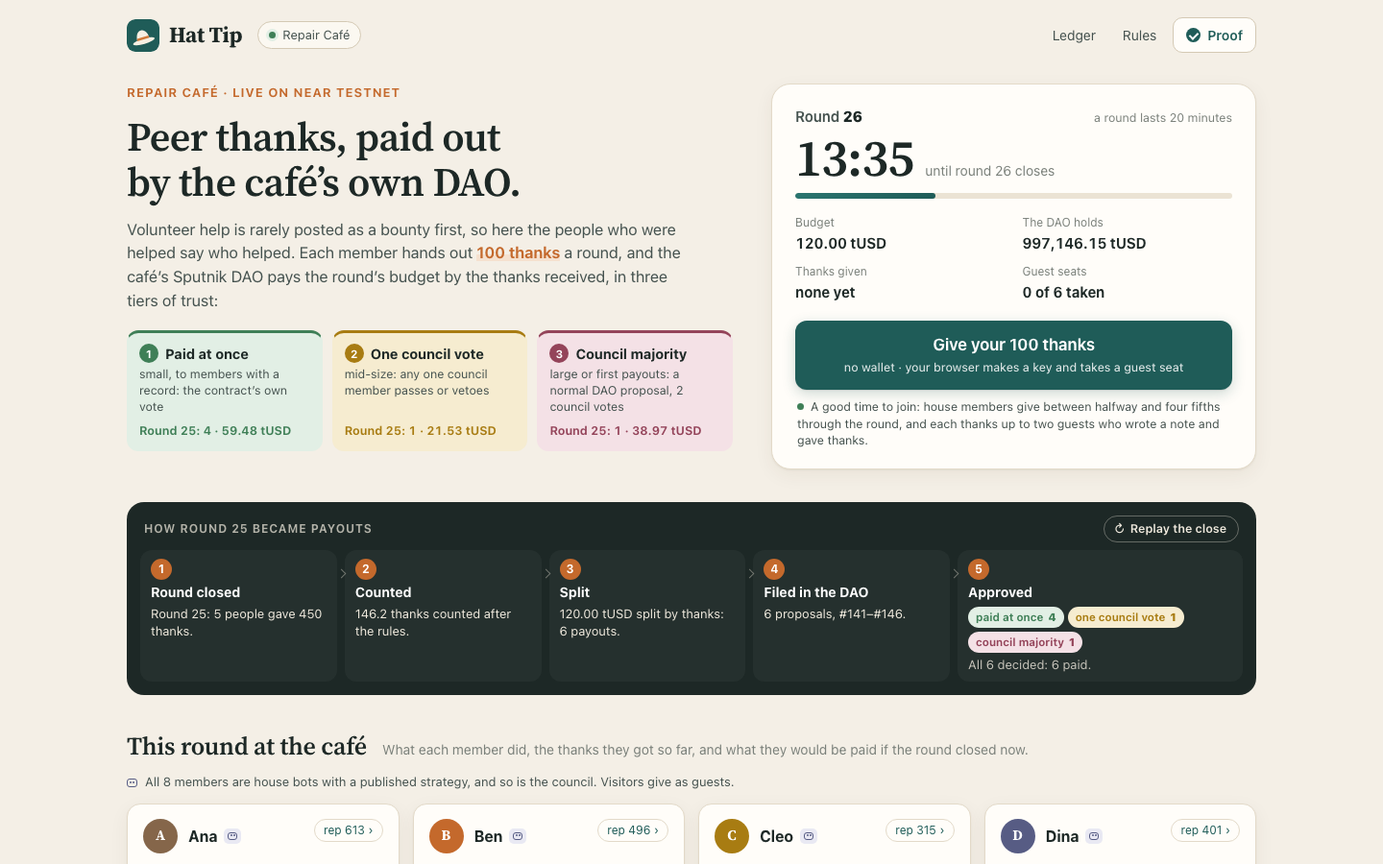
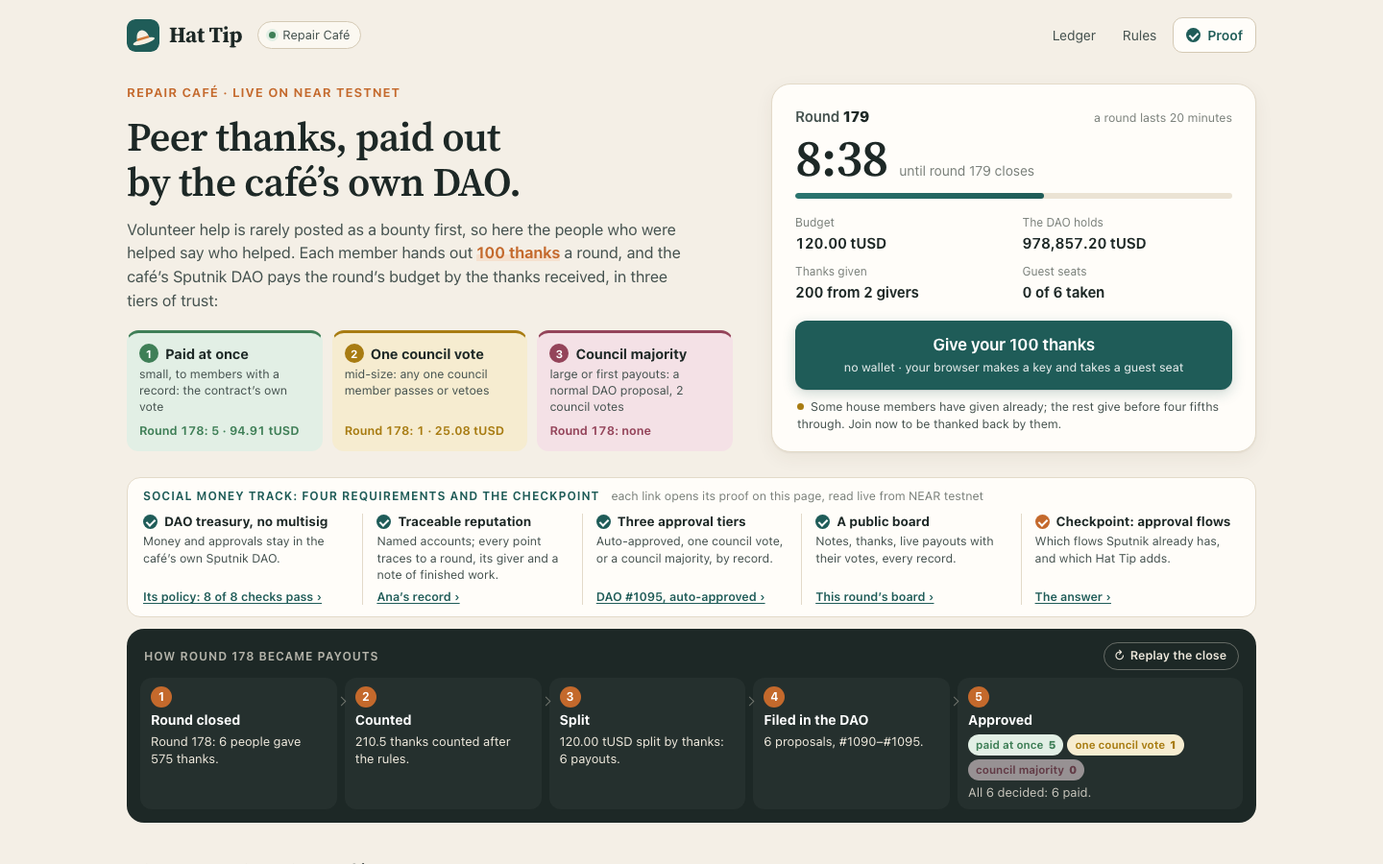
README, JUDGE: requirements with live proofs, numbers as of 11-10 UTC
One-sentence summary on top, the track's four requirements and checkpoint
in the first screen, Trezu as what a mainnet community would see, the
11-08 counts replaced by a dated live read.

diff --git a/README.md b/README.md
@@ -2,15 +2,27 @@
 
 [![CI](https://github.com/replaycourt/hat-tip/actions/workflows/ci.yml/badge.svg)](https://github.com/replaycourt/hat-tip/actions/workflows/ci.yml)
 
-![The live page: "Peer thanks, paid out by the café's own DAO", the three tiers as tiles with the last round's numbers, the round card with the countdown and the Give button, and the five steps of the last close](docs/shots/final-desktop-hero.png)
+**Every payout is a proposal in the community's own Sputnik DAO, the contract that files it has no keys, and a guest without a wallet gets paid.**
 
 **▶ Try it now, no wallet: https://replaycourt.github.io/hat-tip/web/** · [Video, 90 s](https://x.com/replaycourt/status/2119435604131795220) · [JUDGE.md](JUDGE.md): a five-minute path and 14 read-only checks
+
+| The `social` track asks for | How Hat Tip meets it | Live proof |
+|---|---|---|
+| 1. The community's existing DAO or Trezu treasury for custody and approvals, no new multisig | The money stays in the café's Sputnik v2 DAO from the public factory, unmodified. Every payout is a proposal in it, executed by the DAO. | [The DAO's policy, read live](https://replaycourt.github.io/hat-tip/web/#policy) |
+| 2. Reputation tied to named accounts, every point traceable to a finished bounty | Members are named accounts in the DAO's `members` role. Every point traces to a round, its giver and the receiver's note of finished work ("fixed 2 kettles"). | [Ana's record, point by point](https://replaycourt.github.io/hat-tip/web/#record=ana.hat-tip.testnet) |
+| 3. Small payouts auto-approve for trusted contributors, mid-size need one council member, large are a normal DAO proposal | Three vote policies of the DAO itself: the contract's role approves its own transfers 1 of 1, one council vote passes a `call`, the default policy needs the majority. The receiver's record picks the tier. | [DAO #41, filed and approved by the contract](https://replaycourt.github.io/hat-tip/web/#proposal=41) ([its transaction](https://testnet.nearblocks.io/txns/E7SnGkS6Z4oHJcqYLuSbXjDKzQa21sSspYmWDRVzS2zD)) |
+| 4. A public board: open bounties, claims, payouts, each contributor's record | The running round is the open board: each member's note is the claim of finished work, the thanks so far its acceptance, with a live payout preview and tier. Then payouts by tier with DAO links and votes, every record, the ledger of every round. | [The board](https://replaycourt.github.io/hat-tip/web/#board) |
+| Checkpoint: which approval flows exist and which must be added | Sputnik has the roles, the vote policies per proposal kind and the transfers. Hat Tip adds the amount limits, the counting and the choice of tier, and turns off the factory's auto-update. | [On the page](https://replaycourt.github.io/hat-tip/web/#flows), [in full below](#which-approval-flows-exist-and-which-we-add) |
+
+**As of 2026-11-10 21:48 UTC** (block 277,124,746): 178 rounds closed and 1,095 payouts, every one a proposal the contract filed in the DAO: 729 in tier 1, approved by the contract's own vote; 254 in tier 2; 112 in tier 3. 1,091 are paid (21,142.80 tUSD); the council rejected 4, each with its strike; `audit()` balanced. The page reads the current numbers. Code, tests and checks for each row: [Fits the track](#fits-the-track).
+
+![The live page: "Peer thanks, paid out by the café's own DAO", the three tiers as tiles with the last round's numbers, the round card with the countdown and the Give button; under them the track's four requirements and its checkpoint, each with its live link, and the five steps of the last close](docs/shots/final-desktop-hero.png)
 
 **What.** Paying helpers from a DAO is slow by design: every payout is a proposal the council votes on. Hat Tip lets a community that keeps its money in a Sputnik DAO pay the people who helped, without a vote on every small payout and without a new multisig. Each member hands out 100 thanks a round; when the round closes, the DAO pays the round's budget by the thanks received. The receiver's record decides how many people must say yes: small payouts to members with a record pass at once by the contract's own vote, mid-size ones need one council member, large ones and most first payouts are a normal DAO proposal for the council majority.
 
 **Why thanks instead of bounties.** The track's starter idea is a bounty board, and the hackathon guide says: *"Swap the starter idea for your own if you have a better one. Keep the requirements and the checkpoint."* Hat Tip swaps it. In a volunteer community most work is unplanned help that nobody posts or prices in advance: the kettle fixed in passing, the newcomer shown around. Thanks after the work capture it, and the people who were helped are the ones who judge it. The four requirements and the checkpoint stay, each met below in [Fits the track](#fits-the-track).
 
-**Try it in a minute.** Open the page, tap *Give your 100 thanks* (your browser makes a key; there is no wallet prompt), tap *+10* on a few people and see every card's payout and tier move, then send. Join in the first half of a 20-minute round: the house members thank guests back between halfway and four fifths of the round. The dark strip under the title shows how the last round became payouts, in five steps; *Replay the close* plays it; every payout's number opens its proposal live from the DAO.
+**Try it in a minute.** Open the page, tap *Give your 100 thanks* (your browser makes a key; there is no wallet prompt), tap *+10* on a few people and see every card's payout and tier move, then send. Join in the first half of a 20-minute round: the house members thank guests back between halfway and four fifths of the round. Under the tiles, the track's requirements, each with its live link; under them, a dark strip shows how the last round became payouts, in five steps; *Replay the close* plays it; every payout's number opens its proposal live from the DAO.
 
 **Proof.** Everything runs on NEAR testnet in one contract with no access keys: `scripts/judge-checks.sh` reads 14 facts from the chain in about 15 seconds.
 
@@ -20,7 +32,7 @@
 | The tiers are the DAO's own policy | checks 5-8: the three thresholds exactly, no `Everyone` role, only the contract may file `call` proposals, the factory cannot upgrade the DAO |
 | Every payout is a real DAO proposal | check 12: the DAO's proposals against the contract's `payouts()`; the page links each payout to its proposal |
 | The contract counts like the simulation | `contract/tests/golden.rs`: 6 vectors, 61 rounds, to the base unit; the page's `logic.js` passes the same vectors |
-| It ran on the real chain | the final deployment: 24 rounds and 140 payouts in all three tiers by 2026-11-08 18:35 UTC; before it, a staging run of 28 rounds and 154 payouts with 6 council rejections ([docs/testnet-stage.md](docs/testnet-stage.md)) |
+| It runs on the real chain | the final deployment, as of 2026-11-10 21:48 UTC: 178 rounds and 1,095 payouts in all three tiers, each a DAO proposal (the page and check 9 read the current count); before it, a staging run of 28 rounds and 154 payouts with 6 council rejections ([docs/testnet-stage.md](docs/testnet-stage.md)) |
 | What the rules do not stop | [Honest limits](#honest-limits): rings, one-way thanks, free riders, a guest farm, a colluding council |
 
 | The round board | The payouts of the last round, by tier |
@@ -47,7 +59,9 @@ The `social` track: *"shared budgets, programmable rewards, collective ownership
 | 4. A public board: open bounties, claims, payouts, each contributor's record | **Met as a round board.** In place of open bounties and claims: the running round, each member's note of what they did, the thanks so far and a live payout preview with its tier. Then the payouts by tier with DAO proposal links and votes, every member's record, and the ledger of every round. | the page, `web/` |
 | Checkpoint: which approval flows already exist and which must be added | Answered below, from the Sputnik source and a probe on testnet. | [Which approval flows exist and which we add](#which-approval-flows-exist-and-which-we-add) |
 
-**Where it differs, honestly.** Nothing is posted or claimed in advance, so a note is the receiver's own word, and the thanks of the people who were helped are what confirm it. Sputnik's own bounty flow (`AddBounty`, `bounty_claim`, `BountyDone`) could run next to Hat Tip in the same DAO for planned work; the demo DAO does not enable it. Trezu was not run: its hosted app is mainnet-only, and a Trezu treasury is a Sputnik DAO, so the contract binds to one the same way. Members are named accounts; near.social profiles are not used.
+**Where it differs, honestly.** Nothing is posted or claimed in advance, so a note is the receiver's own word, and the thanks of the people who were helped are what confirm it. Sputnik's own bounty flow (`AddBounty`, `bounty_claim`, `BountyDone`) could run next to Hat Tip in the same DAO for planned work; the demo DAO does not enable it. Members are named accounts; near.social profiles are not used.
+
+**Trezu.** A Trezu treasury is a Sputnik DAO, so Hat Tip binds to one the same way: a role `thanks` holding the contract, and a council vote policy of weight 1 for `call` proposals ([Your own community](#run-it-yourself)). A community that keeps its treasury in Trezu on mainnet would see Hat Tip's payouts in Trezu as what they are, proposals of its own DAO: tier 1 already approved by the `thanks` role, tiers 2 and 3 open for the council's votes. Trezu's hosted app works on mainnet only and this demo runs on testnet, so we did not open the demo DAO in Trezu; the page reads the same proposals straight from the DAO.
 
 ### Which approval flows exist and which we add
 
@@ -74,7 +88,7 @@ The probe showed each of these on testnet before the contract was written: the r
 
 On the page (https://replaycourt.github.io/hat-tip/web/, or locally, see [Run it yourself](#run-it-yourself)):
 
-1. **The top:** the idea in one line, the three tiers as tiles with the last round's numbers, and the round card: *Round N*, the countdown, the *Budget*, what *The DAO holds*, and *Give your 100 thanks* with a line on whether now is a good time to join.
+1. **The top:** the idea in one line, the three tiers as tiles with the last round's numbers, and the round card: *Round N*, the countdown, the *Budget*, what *The DAO holds*, and *Give your 100 thanks* with a line on whether now is a good time to join. Under them, *Social Money track: four requirements and the checkpoint*, one line each with the link that opens its proof: the DAO's `get_policy` role by role with its checks (`#policy`), a member's record (`#record=<account>`), the newest proposal the contract filed (`#proposal=<id>`), the board, and which approval flows exist (`#flows`).
 2. **The dark strip, *How round N became payouts*:** *Round closed*, *Counted*, *Split*, *Filed in the DAO* (the proposal numbers filed so far), *Approved* (payouts per tier, how many are paid). It plays at every close; *Replay the close* plays it again.
 3. **The board:** a card per member with this round's note, the thanks so far and the payout if the round closed now. All members are house bots with a published strategy; the demo roles say what they show (*Shows collusion: gives Gus 25 a round and gets 25 back. Mutual thanks count 25 %: 6.2 each way.*). Under it, the last round's payouts in three columns, each with its approvals as marks (*✓ the contract*, *✓ Council A*, *○ a council vote*) and its proposal number, which opens the proposal live from the DAO.
 4. **Give:** *Give your 100 thanks* (no wallet prompt; the browser makes an ed25519 key and takes one of six guest seats), *+10* on the people whose work you value, a note, *Send my thanks*. Every card's preview and tier move as you go, and a line says why counted differs from given (*Thanked each other 25 with Gus: counted 6.2 each way.*). A guest's thanks count half; all guests together steer at most 20 % of a round. Each house member thanks up to two guests who wrote a note and gave thanks (5 each) when it gives, between halfway and four fifths of the round, so join early.
@@ -169,7 +183,7 @@ Before the parameters were fixed, [docs/SIMULATION.md](docs/SIMULATION.md) wrote
 - **The community is a demo, run mostly by labelled bots.** The Repair Café's eight members (five honest helpers, the colluding pair finn and gus, the free rider hugo) and the three council members are house accounts played by `scripts/house.mjs` with strategies published in `sim/params.json` ("house") and on every card. The council votes by a published rule: tier 2 is approved unless more than half of the receiver's points came from one giver it thanked back with at least 6 thanks (a welcome of 5 to a guest does not count); tier 3 only with at least three givers behind it. They run in GitHub Actions ([.github/workflows/house.yml](.github/workflows/house.yml)), with keys only from a repository secret. At launch all three council seats are house accounts (`council-a`, `-b`, `-c`); no human holds one.
 - **Visitors are real.** A guest's thanks, seat and payout are real transactions on testnet, relayed through public function-call keys (in `web/js/config.js`, public on purpose; anyone can spend their allowance, which pauses guest play until they are refilled).
 - **Rounds move when someone calls.** The clock decides when a round ends; a call (the keeper, the page, anyone) closes it.
-- **The evidence comes from scripts.** The staging run on testnet (2026-11-07, 28 five-minute rounds, 744 transactions, 154 payouts: 48 tier 1, 65 tier 2, 41 tier 3; 6 council rejections and one removal, each with its strike; `audit()` balanced after every round) was driven by the house script and three browser-style guests ([docs/testnet-stage.md](docs/testnet-stage.md)). The final deployment ([docs/testnet-launch.md](docs/testnet-launch.md)), read 2026-11-08 at 18:35 UTC after 24 rounds of 20 minutes: 140 payouts, 38 in tier 1, 63 in tier 2 and 39 in tier 3, two of them rejected by the council with their strikes (both gus's: round 2, tier 3, and round 17, tier 2), 2,733.84 tUSD paid, `audit()` balanced. Tier 1 began in round 9, once the first member's reputation passed 200 thanks (payout 40 to ana, DAO #41).
+- **The evidence comes from scripts.** The staging run on testnet (2026-11-07, 28 five-minute rounds, 744 transactions, 154 payouts: 48 tier 1, 65 tier 2, 41 tier 3; 6 council rejections and one removal, each with its strike; `audit()` balanced after every round) was driven by the house script and three browser-style guests ([docs/testnet-stage.md](docs/testnet-stage.md)). The final deployment ([docs/testnet-launch.md](docs/testnet-launch.md)), read 2026-11-10 at 21:48 UTC (block 277,124,746) while round 179 ran: 178 rounds of 20 minutes closed and 1,095 payouts, each a proposal the contract filed in the DAO (#1 to #1095; #0 is the council's proposal that turned off the factory's auto-update): 729 in tier 1, 254 in tier 2 and 112 in tier 3. 1,091 are paid, 21,142.80 tUSD; four were rejected by the council, each with its strike (gus's in rounds 2, 17 and 82, finn's in round 28); `audit()` balanced. Tier 1 began in round 9, once the first member's reputation passed 200 thanks (payout 40 to ana, DAO #41). The page and `scripts/judge-checks.sh` read the current numbers.
 
 ## Honest limits
 
@@ -182,7 +196,7 @@ Before the parameters were fixed, [docs/SIMULATION.md](docs/SIMULATION.md) wrote
 - **Every payout stays in the DAO's storage.** Sputnik never deletes a proposal (except on removal): about 385 bytes, 0.0038 NEAR each. That is why small shares are carried, not paid.
 - **The contract's copy of the member and council lists** is as fresh as the last close of a round with allocations or `sync()`.
 - **The contract pays for its storage, the guests' too.** It starts with 11 NEAR (code, 108 rounds of logs with every guest seat taken, the bond float); with less than 1 NEAR free it refuses guests, and anyone can send it more ([contract/README.md](contract/README.md#storage)).
-- **Trezu was not run** (its hosted app is mainnet-only). **No bounties:** the starter idea's bounty board is swapped for thanks after the work, with the requirements kept (see [Fits the track](#fits-the-track)).
+- **Not opened in Trezu.** Trezu's hosted app works on mainnet only, so the testnet demo DAO was not viewed there ([what a Trezu community would see](#fits-the-track)). **No bounties:** the starter idea's bounty board is swapped for thanks after the work, with the requirements kept (see [Fits the track](#fits-the-track)); Sputnik's bounty flow stays free for planned work.
 - **AI-generated code.** An AI coding agent (Claude) wrote the code and documentation from a human's brief during the hackathon window. The evidence that it works: the contract's tests in a mock VM with a model of the Sputnik DAO, the golden test against the simulation, `audit()` balanced on chain, and the staging run with all three tiers. No human reviewed it line by line, and the contract has not been audited.
 
 ## Run it yourself
@@ -201,7 +215,7 @@ It needs Ed25519 in WebCrypto (Chrome 137+, Safari 17+, Firefox 130+) and has a 
 **Tests.**
 
 ```sh
-node --test 'web/test/*.test.mjs'      # 93 tests: counting port vs the golden vectors, preview, giving, signing, policy checks, RPC, mock round, replay data, the close strip and the guest's result; about 7 s
+node --test 'web/test/*.test.mjs'      # 100 tests: counting port vs the golden vectors, preview, giving, signing, policy checks, RPC, mock round, replay data, the close strip, the guest's result, the requirements strip and its links; about 6 s
 node --test 'scripts/test/*.test.mjs'  # 12 tests: the house council's rule and the keeper's window; under 1 s
 (cd contract && cargo test)           # 82 tests in the SDK's mock VM with a model of the Sputnik DAO; cold build about 11 minutes, tests about 2 s
 (cd token && cargo test)              # 6 tests; cold build about 14 minutes

diff --git a/JUDGE.md b/JUDGE.md
@@ -1,6 +1,18 @@
 # Judging Hat Tip in five minutes
 
-**What it is, against the track.** The `social` track's starter idea is a bounty board with earned trust. Hat Tip swaps it for thanks after the work, as the hackathon's guide allows (*"Swap the starter idea for your own if you have a better one. Keep the requirements and the checkpoint."*): in a volunteer community most help is never posted or priced in advance, and the people who were helped are the ones who judge it. It keeps the four requirements and the checkpoint: custody and every approval in the community's existing Sputnik DAO; reputation on named accounts, every point traced to a round, its giver and the receiver's note of finished work; three tiers (the contract's own vote, one council vote, a normal DAO proposal); a public board with payouts, DAO links and each member's record; and the approval flows Sputnik has and Hat Tip adds. One row each, with where to check: [README, Fits the track](README.md#fits-the-track).
+**Every payout is a proposal in the community's own Sputnik DAO, the contract that files it has no keys, and a guest without a wallet gets paid.**
+
+**What it is, against the track.** The `social` track's starter idea is a bounty board with earned trust. Hat Tip swaps it for thanks after the work, as the hackathon's guide allows (*"Swap the starter idea for your own if you have a better one. Keep the requirements and the checkpoint."*): in a volunteer community most help is never posted or priced in advance, and the people who were helped are the ones who judge it. The four requirements and the checkpoint stay, each with a live proof:
+
+| The `social` track asks for | How Hat Tip meets it | Live proof |
+|---|---|---|
+| 1. The community's existing DAO or Trezu treasury for custody and approvals, no new multisig | The money stays in the café's Sputnik v2 DAO from the public factory, unmodified. Every payout is a proposal in it, executed by the DAO. | [The DAO's policy, read live](https://replaycourt.github.io/hat-tip/web/#policy); checks 5-8, 14 below |
+| 2. Reputation tied to named accounts, every point traceable to a finished bounty | Members are named accounts in the DAO's `members` role. Every point traces to a round, its giver and the receiver's note of finished work ("fixed 2 kettles"). | [Ana's record, point by point](https://replaycourt.github.io/hat-tip/web/#record=ana.hat-tip.testnet) |
+| 3. Small payouts auto-approve for trusted contributors, mid-size need one council member, large are a normal DAO proposal | Three vote policies of the DAO itself: the contract's role approves its own transfers 1 of 1, one council vote passes a `call`, the default policy needs the majority. The receiver's record picks the tier. | [DAO #41, filed and approved by the contract](https://replaycourt.github.io/hat-tip/web/#proposal=41) ([its transaction](https://testnet.nearblocks.io/txns/E7SnGkS6Z4oHJcqYLuSbXjDKzQa21sSspYmWDRVzS2zD)); checks 5, 12 |
+| 4. A public board: open bounties, claims, payouts, each contributor's record | The running round is the open board: each member's note is the claim of finished work, the thanks so far its acceptance, with a live payout preview and tier. Then payouts by tier with DAO links and votes, every record, the ledger of every round. | [The board](https://replaycourt.github.io/hat-tip/web/#board) |
+| Checkpoint: which approval flows exist and which must be added | Sputnik has the roles, the vote policies per proposal kind and the transfers. Hat Tip adds the amount limits, the counting and the choice of tier, and turns off the factory's auto-update. | [On the page](https://replaycourt.github.io/hat-tip/web/#flows), [in the README](README.md#which-approval-flows-exist-and-which-we-add) |
+
+Code, tests and checks for each row: [README, Fits the track](README.md#fits-the-track).
 
 Everything runs on NEAR testnet: the Hat Tip contract `thanks.hat-tip.testnet`, the token `tusd.hat-tip.testnet` and the Sputnik v2 DAO `hat-tip.sputnikv2.testnet` (launched 2026-11-08, [docs/testnet-launch.md](docs/testnet-launch.md)). You need a browser for the page, and bash, `curl` and `python3` for the checks. No account, wallet or install. A round lasts 20 minutes, so the path below shows the last close as a replay and your own thanks in the running round.
 
@@ -8,7 +20,7 @@ Everything runs on NEAR testnet: the Hat Tip contract `thanks.hat-tip.testnet`, 
 
 Open https://replaycourt.github.io/hat-tip/web/ in Chrome 137+, Safari 17+ or Firefox 130+. Giving thanks sends real testnet transactions, paid by the public relay keys. The same path as a 90-second video: https://x.com/replaycourt/status/2119435604131795220.
 
-1. **Open the page.** See *Peer thanks, paid out by the café's own DAO* and the three tiers as tiles with the last round's numbers: *Paid at once*, *One council vote*, *Council majority*. On the right the round card: *Round N*, the countdown *until round N closes*, *Budget* (120 tUSD), *The DAO holds*, *Thanks given*, *Guest seats*, and *Give your 100 thanks* with a line on whether now is a good time to join.
+1. **Open the page.** See *Peer thanks, paid out by the café's own DAO* and the three tiers as tiles with the last round's numbers: *Paid at once*, *One council vote*, *Council majority*. On the right the round card: *Round N*, the countdown *until round N closes*, *Budget* (120 tUSD), *The DAO holds*, *Thanks given*, *Guest seats*, and *Give your 100 thanks* with a line on whether now is a good time to join. Under them, *Social Money track: four requirements and the checkpoint*, one line each with its proof: *Its policy: 8 of 8 checks pass ›* opens the DAO's `get_policy` role by role, *Ana's record ›* her points with their givers, *DAO #N, auto-approved ›* the newest proposal the contract filed and approved itself, then the board and the approval flows.
 2. **Read the dark strip under it, *How round N became payouts*:** *Round closed*, *Counted*, *Split*, *Filed in the DAO* (the proposal numbers), *Approved* (the payouts per tier and how many are paid). Tap *Replay the close*: the five steps play again, in view.
 3. **Look at the board.** A card per member with this round's note and the thanks received so far; a line over it says all members are house bots with a published strategy. The demo roles say what they show: finn and gus, *Shows collusion: gives Gus 25 a round and gets 25 back. Mutual thanks count 25 %: 6.2 each way.*; hugo, *Shows free riding: fixes nothing, thanks nobody …*. Early in a round each card shows its last round's payout, dimmed.
 4. **Look at *Payouts of round N*,** the last round that paid. Three columns: *Paid automatically* (tier 1), *Needs one council vote* (tier 2), *Needs a council majority* (tier 3), each payout with its approvals as marks (*✓ the contract*, *✓ Council A*). Tap a proposal number and see the proposal read live from the DAO: its kind (`Transfer` or `FunctionCall ft_transfer`), receiver, amount and the votes (on a tier-1 payout only *the contract*'s own).
@@ -27,10 +39,10 @@ scripts/judge-checks.sh
 
 It needs bash, curl and python3 (macOS or Linux), sends no transaction, reads everything at one final block, and prints PASS or FAIL for each check. Its exit code is the number of failed checks (65: the final deployment is not in `deploy/testnet.json` yet; it then says "not launched yet"). A read that gets no answer from FastNEAR or the dRPC fallback fails its check; it never passes.
 
-Expected (the final deployment, read 2026-11-08 at 18:35 UTC, while round 25 ran; the block, the round and the payout counts grow with every round; `--section staging` checks the staging deployment, where checks 1 and 2 are INFO because staging keeps its keys):
+Expected (the final deployment, read 2026-11-10 at 21:48 UTC, while round 179 ran; the block, the round and the payout counts grow with every round; `--section staging` checks the staging deployment, where checks 1 and 2 are INFO because staging keeps its keys):
 
 ```
-Hat Tip (final): read-only checks of thanks.hat-tip.testnet, tusd.hat-tip.testnet and hat-tip.sputnikv2.testnet at block 276813042
+Hat Tip (final): read-only checks of thanks.hat-tip.testnet, tusd.hat-tip.testnet and hat-tip.sputnikv2.testnet at block 277124746
 RPC: https://test.rpc.fastnear.com, fallback https://near-testnet.drpc.org
 PASS  1. thanks.hat-tip.testnet has no access keys
 PASS  2. tusd.hat-tip.testnet has no access keys
@@ -40,10 +52,10 @@ PASS  5. DAO policy: the three tiers exactly (council of 3)
 PASS  6. DAO policy: no Everyone role
 PASS  7. DAO policy: call:AddProposal only in role thanks
 PASS  8. DAO factory auto-update off
-PASS  9. audit(): balanced, attributed, statuses, ids, carry (140 payouts)
-PASS  10. the last close is less than two rounds old (round 25)
+PASS  9. audit(): balanced, attributed, statuses, ids, carry (1095 payouts)
+PASS  10. the last close is less than two rounds old (round 179)
 PASS  11. config(): dao = hat-tip.sputnikv2.testnet, token = tusd.hat-tip.testnet
-PASS  12. a sample of the DAO's proposals matches payouts() (proposer, kind, receiver, amount, status) (40 payouts and DAO #101-#140, 40 by the contract)
+PASS  12. a sample of the DAO's proposals matches payouts() (proposer, kind, receiver, amount, status) (40 payouts and DAO #1056-#1095, 40 by the contract)
 PASS  13. relay keys only call act, close_round, pay, check_payout, sync (11 relay keys)
 PASS  14. the DAO's code is one the factory sputnikv2.testnet publishes (version 3.31)
 All 14 checks passed.
@@ -90,7 +102,8 @@ Line numbers are at the deployed source (`contract/WASM_SHA256` `91e5f94a…4ab8
 | Gas: the largest round closes in one receipt; every chain fits its gas | `contract/src/config.rs:69-90`; `contract/src/pay.rs:27-56` | `contract/tests/gas.rs` | burnt gas per call: [docs/testnet-stage.md](docs/testnet-stage.md#gas-measured) |
 | The three tiers are the DAO's own policy | the policy in [DESIGN.md](DESIGN.md#the-three-tiers-in-the-dao); created and compared by `scripts/create-dao.mjs` | the tier probe on testnet, [docs/testnet-probe.md](docs/testnet-probe.md) | checks 5-8, 14 |
 | tUSD: fixed supply to the DAO, no mint | `new`, `token/src/lib.rs:47` | `token/tests/token.rs` | check 2, 4 |
-| The page counts like the contract and checks what it shows | `countRound`, `web/js/logic.js:101`; `policyReport`, `web/js/logic.js:614`; `proofHtml`, `web/js/ui.js:435` | `web/test/golden.test.mjs`, `web/test/logic.test.mjs` | |
+| The page counts like the contract and checks what it shows | `countRound`, `web/js/logic.js:101`; `policyReport`, `web/js/logic.js:614`; `proofHtml`, `web/js/ui.js:436` | `web/test/golden.test.mjs`, `web/test/logic.test.mjs` | |
+| Each requirement links to its proof on the page: the DAO's policy role by role, a member's record, a proposal the contract filed, the board, the approval flows | `parseRoute`, `reqProposal`, `policyRoles`, `web/js/logic.js:1084`, `:1105`, `:1115`; `policyHtml`, `web/js/ui.js:514`; `renderReqs`, `route`, `web/js/main.js:376`, `:882`; the strip and the flows in `web/index.html` | `web/test/reqs.test.mjs` | |
 | The page tells the close and the demo from the chain's records: proposals filed so far, the colluding pair's real partner, a guest's own result | `pickReason`, `filedText`, `guestOutcome`, `web/js/logic.js:839`, `:886`, `:957`; `storyHtml`, `web/js/ui.js:162` | `web/test/story.test.mjs` | |
 | House members: labelled, published strategies, same rules | `scripts/house.mjs`; `house` in `sim/params.json`; `.github/workflows/house.yml` | the staging run | every house transaction in `docs/testnet-stage.json` |
 | The parameters were picked by a pre-registered rule | [docs/SIMULATION.md](docs/SIMULATION.md), `sim/hat_tip_sim.py` | `python3 sim/hat_tip_sim.py --check` | |
@@ -102,7 +115,7 @@ More evidence transactions (each path once) are in `deploy/testnet.json`, `stagi
 Measured 2026-11-08 on a 4-core Intel laptop (macOS 15), cold builds from an empty target directory:
 
 ```sh
-node --test 'web/test/*.test.mjs'      # 93 tests; Node 20+, no install; about 7 seconds
+node --test 'web/test/*.test.mjs'      # 100 tests; Node 20+, no install; about 6 seconds
 node --test 'scripts/test/*.test.mjs'  # 12 tests (the house council's rule, the keeper's window); under 1 second
 (cd contract && cargo test)           # 82 tests in the SDK's mock VM with a model of the Sputnik DAO; cold build 11 minutes, tests about 2 seconds
 (cd token && cargo test)              # 6 tests (NEP-141, storage, fixed supply); cold build 14 minutes
